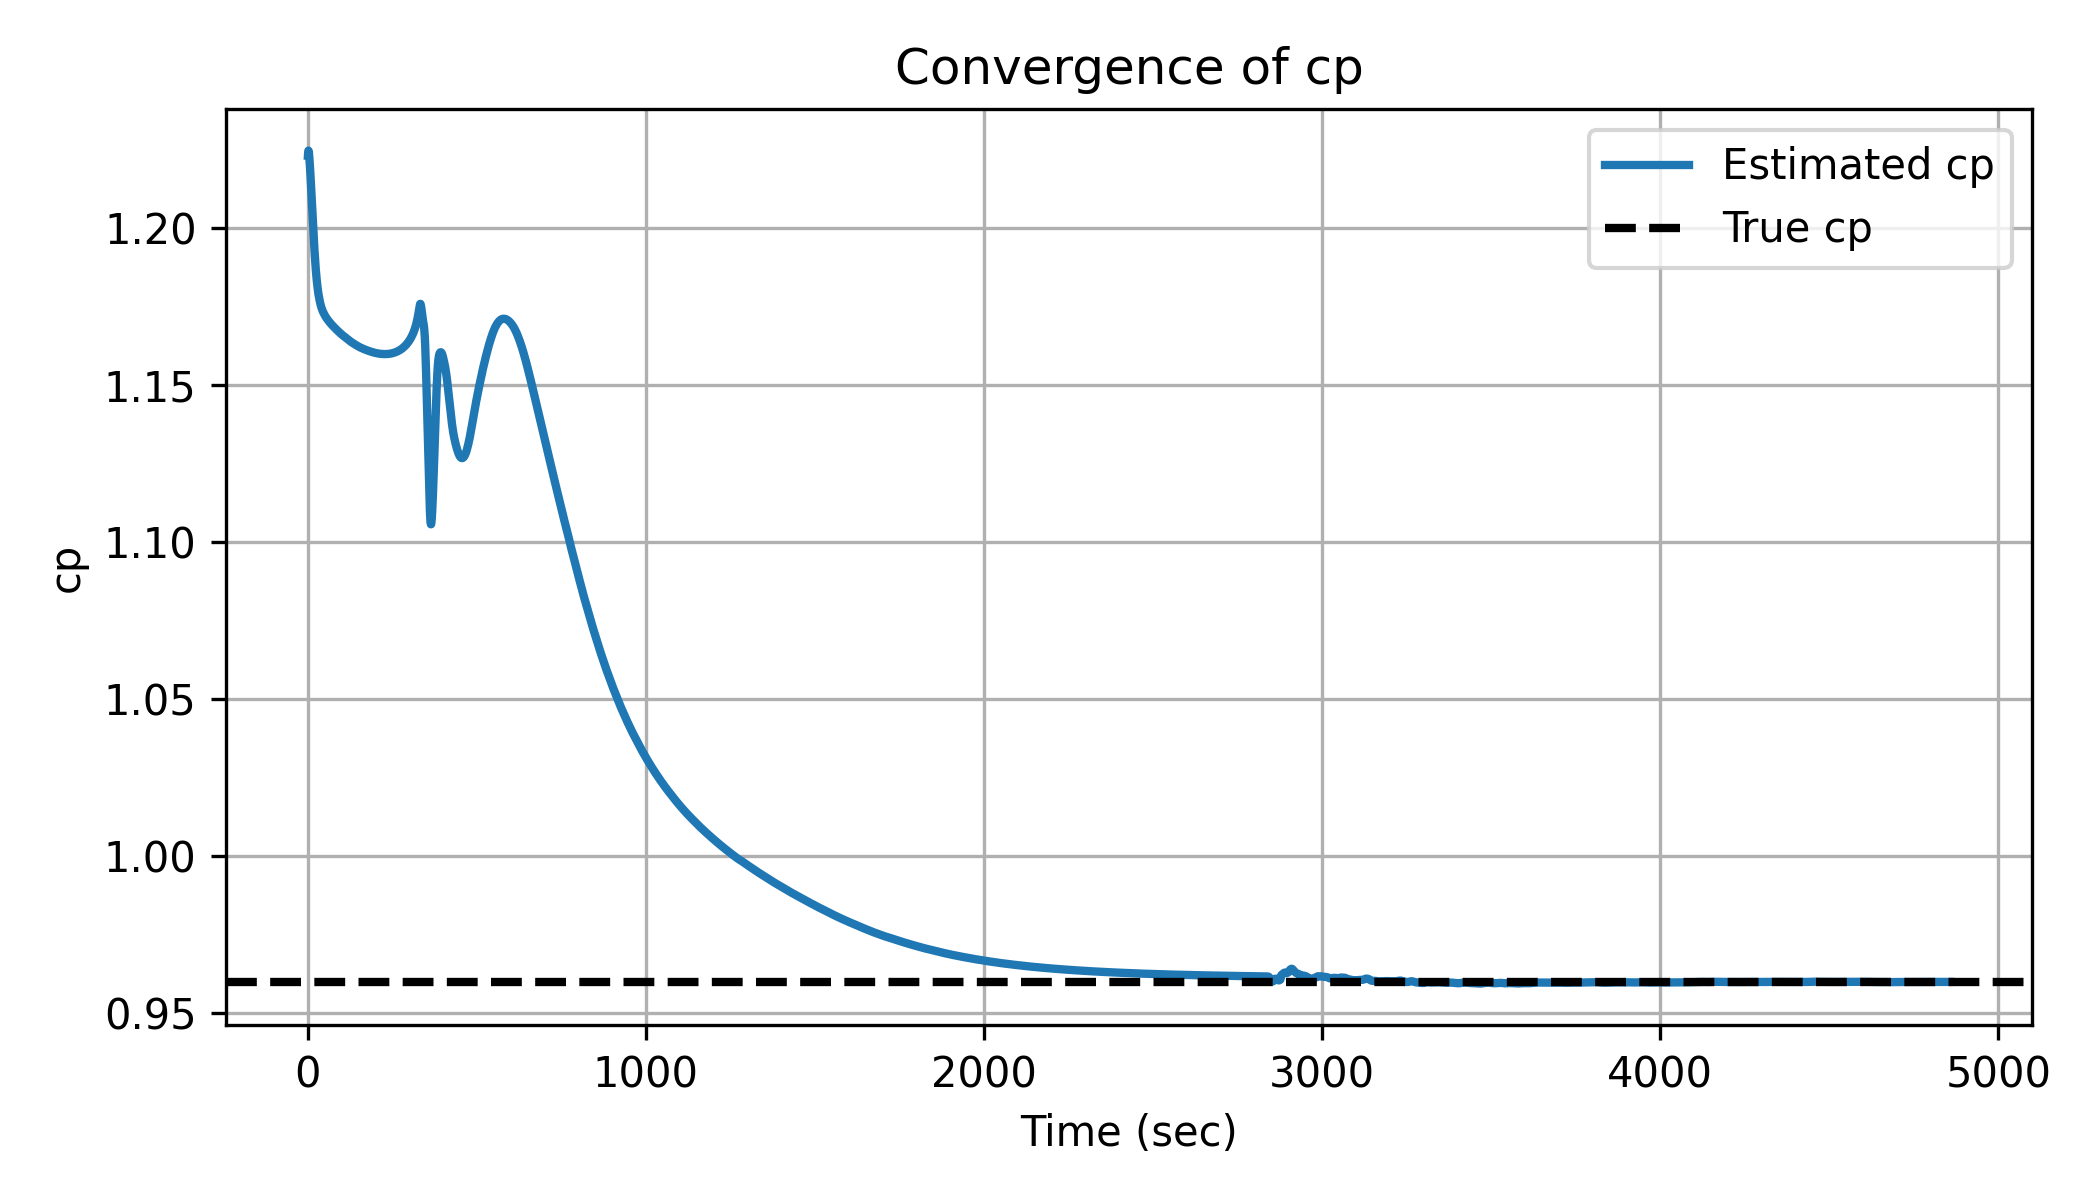
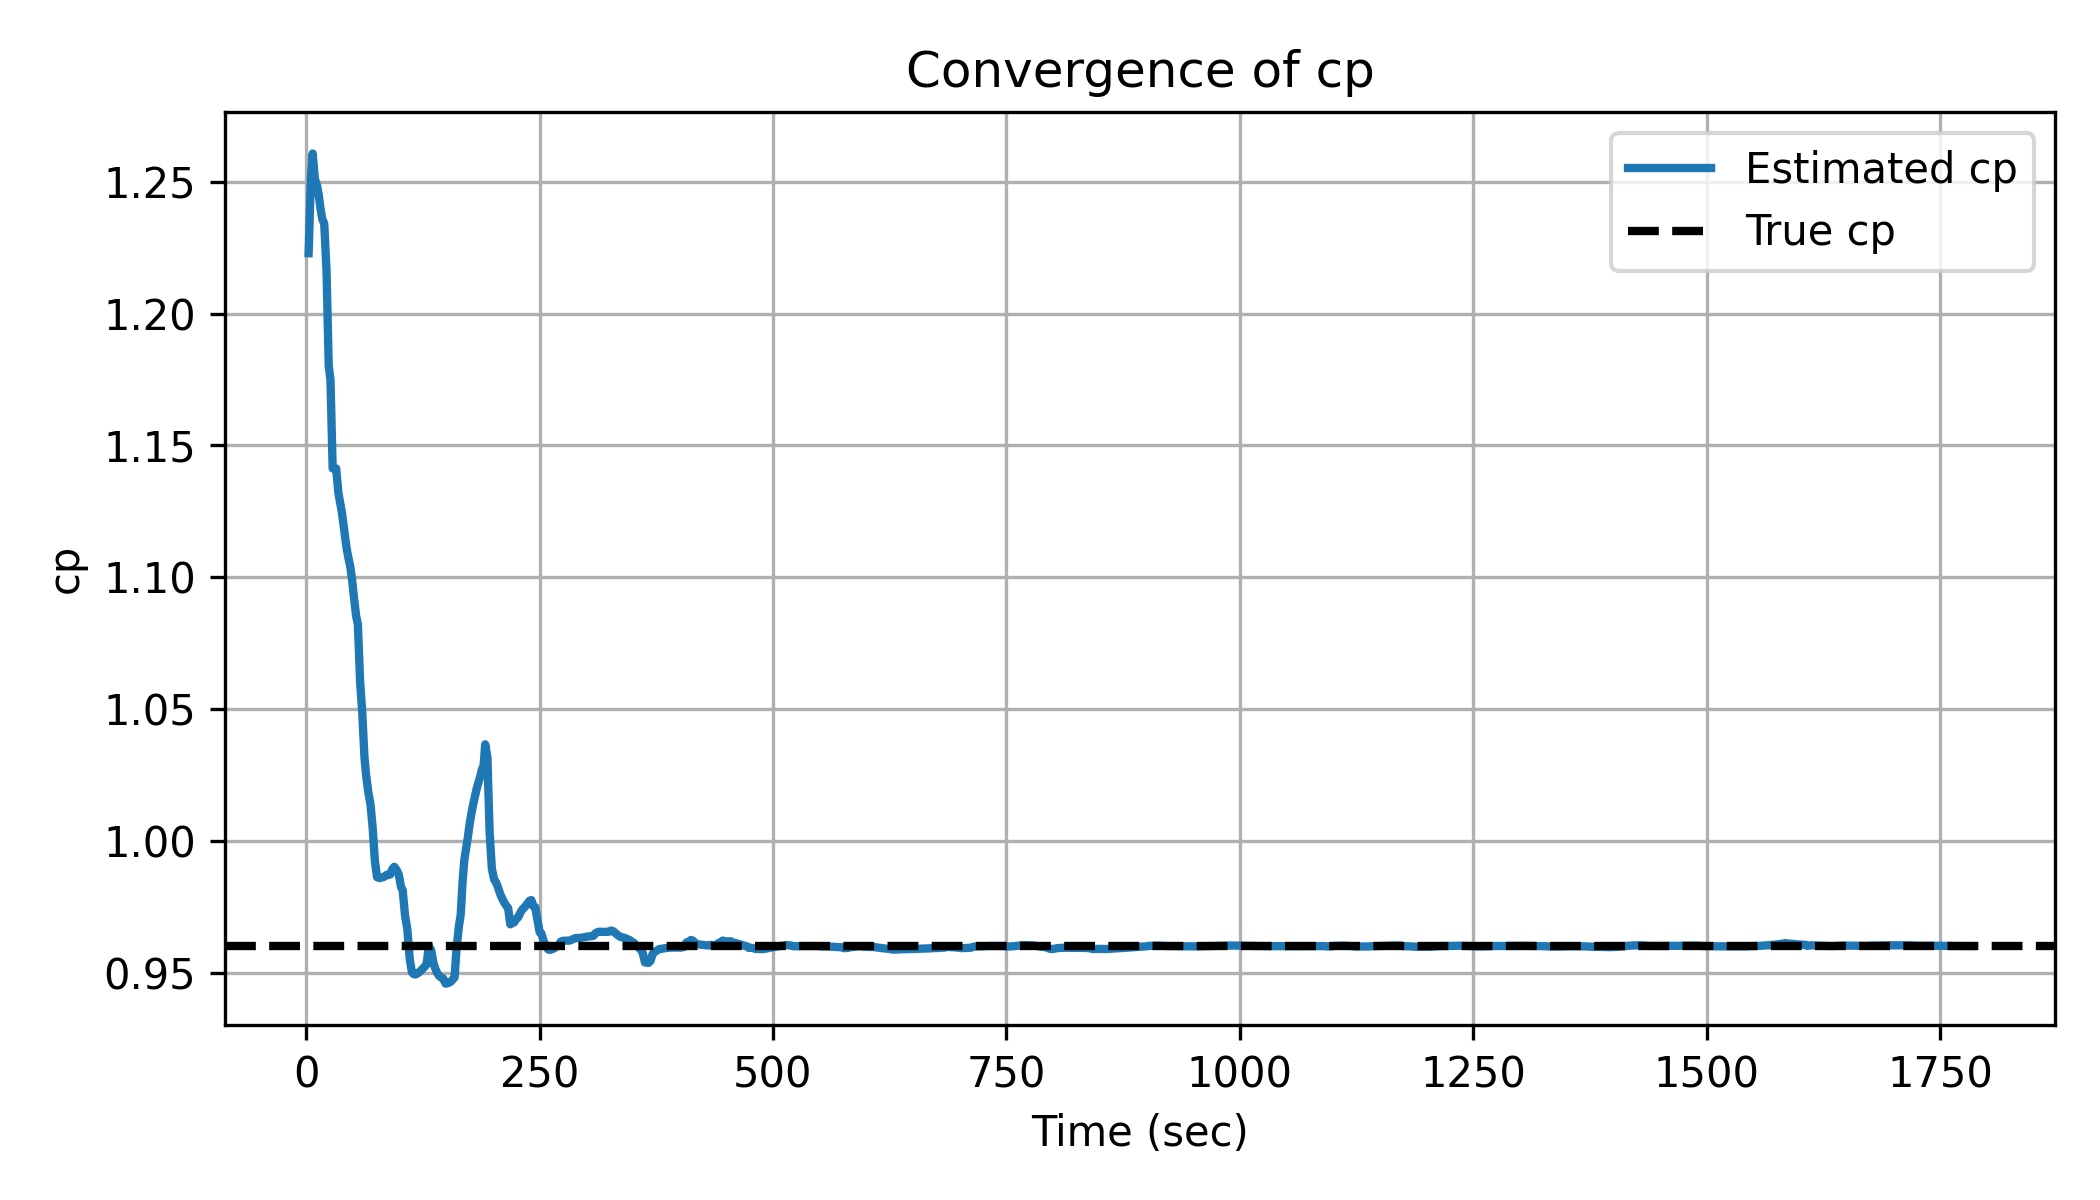
Addes ateg 4

diff --git a/Custom Test/PINNs code/Stage 3/Estimating Heat Equation 2d Stage 3.py b/Custom Test/PINNs code/Stage 3/Estimating Heat Equation 2d Stage 3.py
@@ -344,119 +344,6 @@ def main(param_to_learn):
     # for using in LBFGS (freeze best Adam lambdas)
     last_lambdas = {"pde": 0.25, "ic": 0.25, "bc": 0.25, "data": 0.25}
 
-    for it in range(adam_iters):
-        optimizer.zero_grad()
-
-        # Build graph once
-        Lr, Li, Lb, Ld = model.losses(
-            x_train_Nu, y_train_Nu, t_train_Nu, U_train_Nu,
-            x_train_initial, y_train_initial, t_train_initial,
-            x_train_boundary, y_train_boundary, t_train_boundary
-        )
-
-        losses = {"data": Ld, "pde": Lr, "bc": Lb, "ic": Li}
-        params = [p for (n,p) in model.named_parameters()
-                if p.requires_grad and not n.endswith("_hat")]
-
-
-        # ---- Grad norms per term (no .grad side effects) ----
-        grads = {}
-        for name, term in losses.items():
-            g = torch.autograd.grad(
-                term, params,
-                retain_graph=True,
-                create_graph=False,
-                allow_unused=True
-            )
-            gn = torch.zeros((), device=device)
-            cnt = 0
-            for gi in g:
-                if gi is not None:
-                    gn = gn + gi.norm()
-                    cnt += 1
-            grads[name] = gn / max(cnt, 1)
-
-        total_grad = sum(grads.values())
-        lambdas = {k: total_grad / (grads[k] + 1e-8) for k in grads}
-        Z = sum(lambdas.values()) + 1e-12
-        lambdas = {k: (v / Z) for k, v in lambdas.items()}  # sum=1
-
-        # cache last lambdas for LBFGS
-        last_lambdas = lambdas
-
-        # ---- Final weighted objective (include fixed priors if you want) ----
-        L = (
-            lambda_r * lambdas["pde"]  * Lr +
-            lambda_i * lambdas["ic"]   * Li +
-            lambda_b * lambdas["bc"]   * Lb +
-            lambda_d * lambdas["data"] * Ld
-        )
-
-        L.backward()
-        optimizer.step()
-
-        # Always track parameter/time (cheap)
-        elapsed = default_timer() - t_start
-        history["rho"].append(float(model.rho.detach()))
-        history["cp"].append(float(model.cp.detach()))
-        history["lam"].append(float(model.lam.detach()))
-        history["time_sec"].append(elapsed)
-
-        curr = float(L.detach())
-        param_val = get_param_val()
-
-        # --- loss early stop (per CHECK) ---
-        if curr < best_loss - loss_min_delta:
-            best_loss = curr
-            best_state = {k: v.detach().cpu().clone() for k, v in model.state_dict().items()}
-            loss_counter = 0
-        else:
-            loss_counter += 1
-
-        # --- param early stop (per CHECK) ---
-        if prev_param_val is None:
-            prev_param_val = param_val
-            param_counter = 0
-        else:
-            if abs(param_val - prev_param_val) < param_min_delta:
-                param_counter += 1
-            else:
-                param_counter = 0
-            prev_param_val = param_val
-
-        # store logged losses at same cadence
-        history["L_total"].append(curr)
-        history["L_pde"].append(float(Lr.detach()))
-        history["L_ic"].append(float(Li.detach()))
-        history["L_bc"].append(float(Lb.detach()))
-        history["L_data"].append(float(Ld.detach()))
-
-        # Early stopping + logging only every check_every
-        if (it % check_every == 0) or (it == adam_iters - 1):
-            print(
-                f"[Adam {it:06d}] L={curr:.3e} "
-                f"(Ld={float(Ld):.3e}, Lr={float(Lr):.3e}, Lb={float(Lb):.3e}, Li={float(Li):.3e}) | "
-                f"{param_to_learn}={param_val:.6f} streak={param_counter}/{param_patience} | "
-                f"best={best_loss:.3e} loss_streak={loss_counter}/{loss_patience} | "
-                f"lams(pde,ic,bc,data)=({lambdas['pde']:.2f},{lambdas['ic']:.2f},{lambdas['bc']:.2f},{lambdas['data']:.2f})"
-            )
-
-        if loss_counter >= loss_patience:
-            print(f"[Adam] Early stopping (loss) at iter={it} best_loss={best_loss:.3e}")
-            break
-
-        if param_counter >= param_patience:
-            print(
-                f"[Adam] Early stopping (param) at iter={it}: "
-                f"{param_to_learn} changed < {param_min_delta:g} for {param_patience} checks "
-                f"({param_patience*check_every} steps)."
-            )
-            break
-
-    # Restore best Adam model before L-BFGS
-    if best_state is not None:
-        model.load_state_dict(best_state)
-        model.to(device)
 
     # ---------------------------
     # L-BFGS (freeze lambdas per outer iteration)
